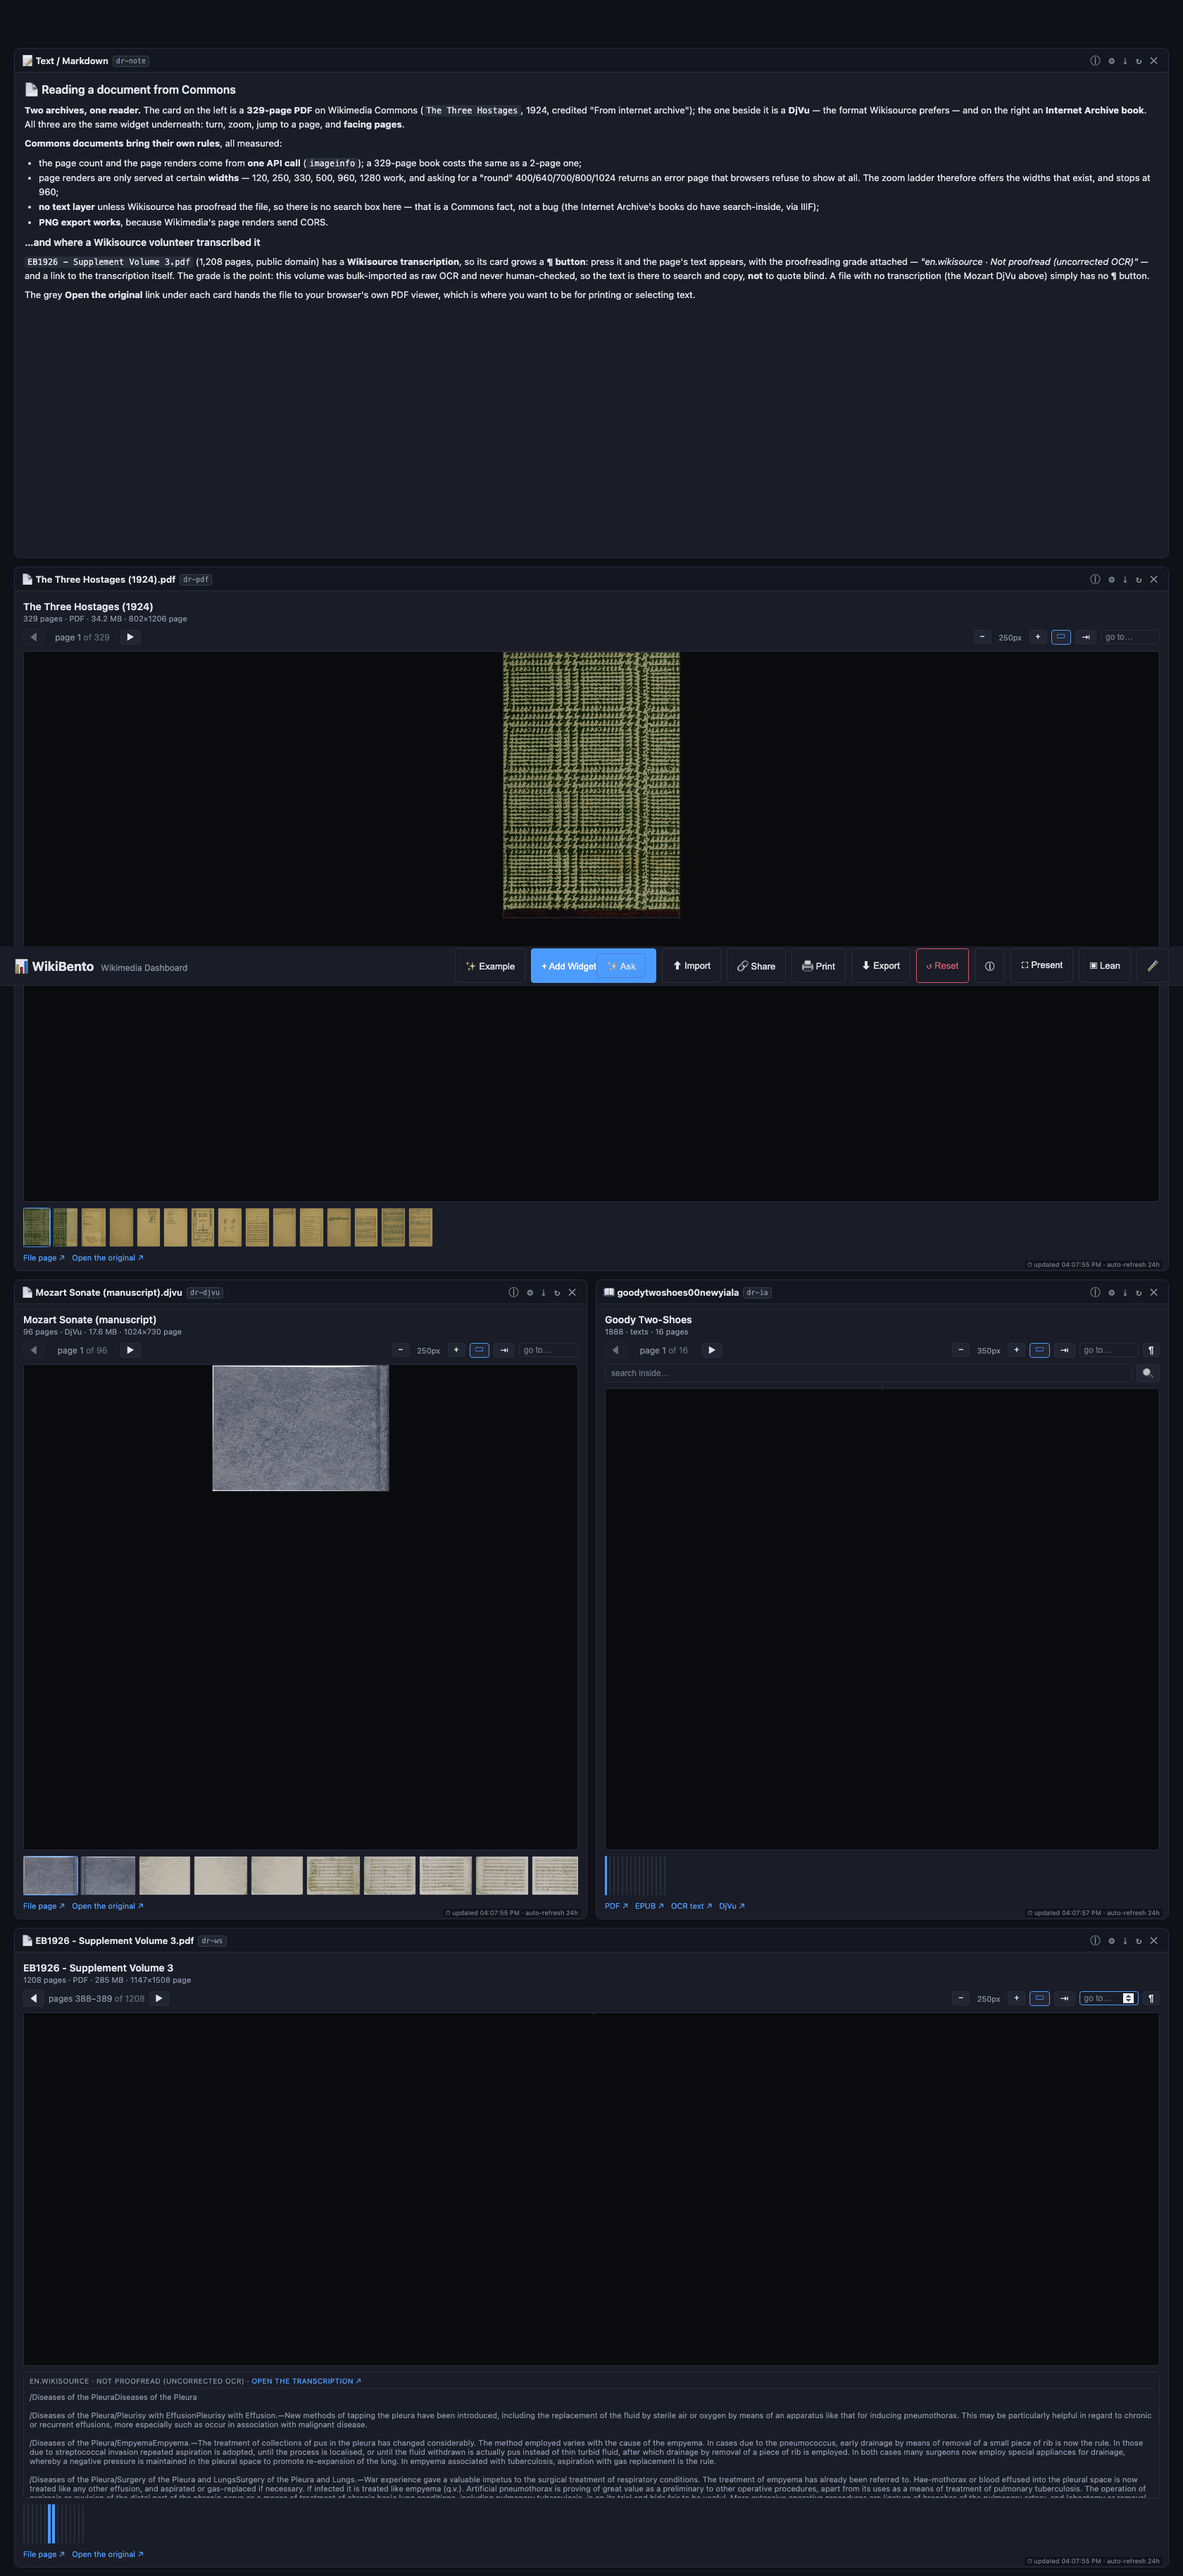
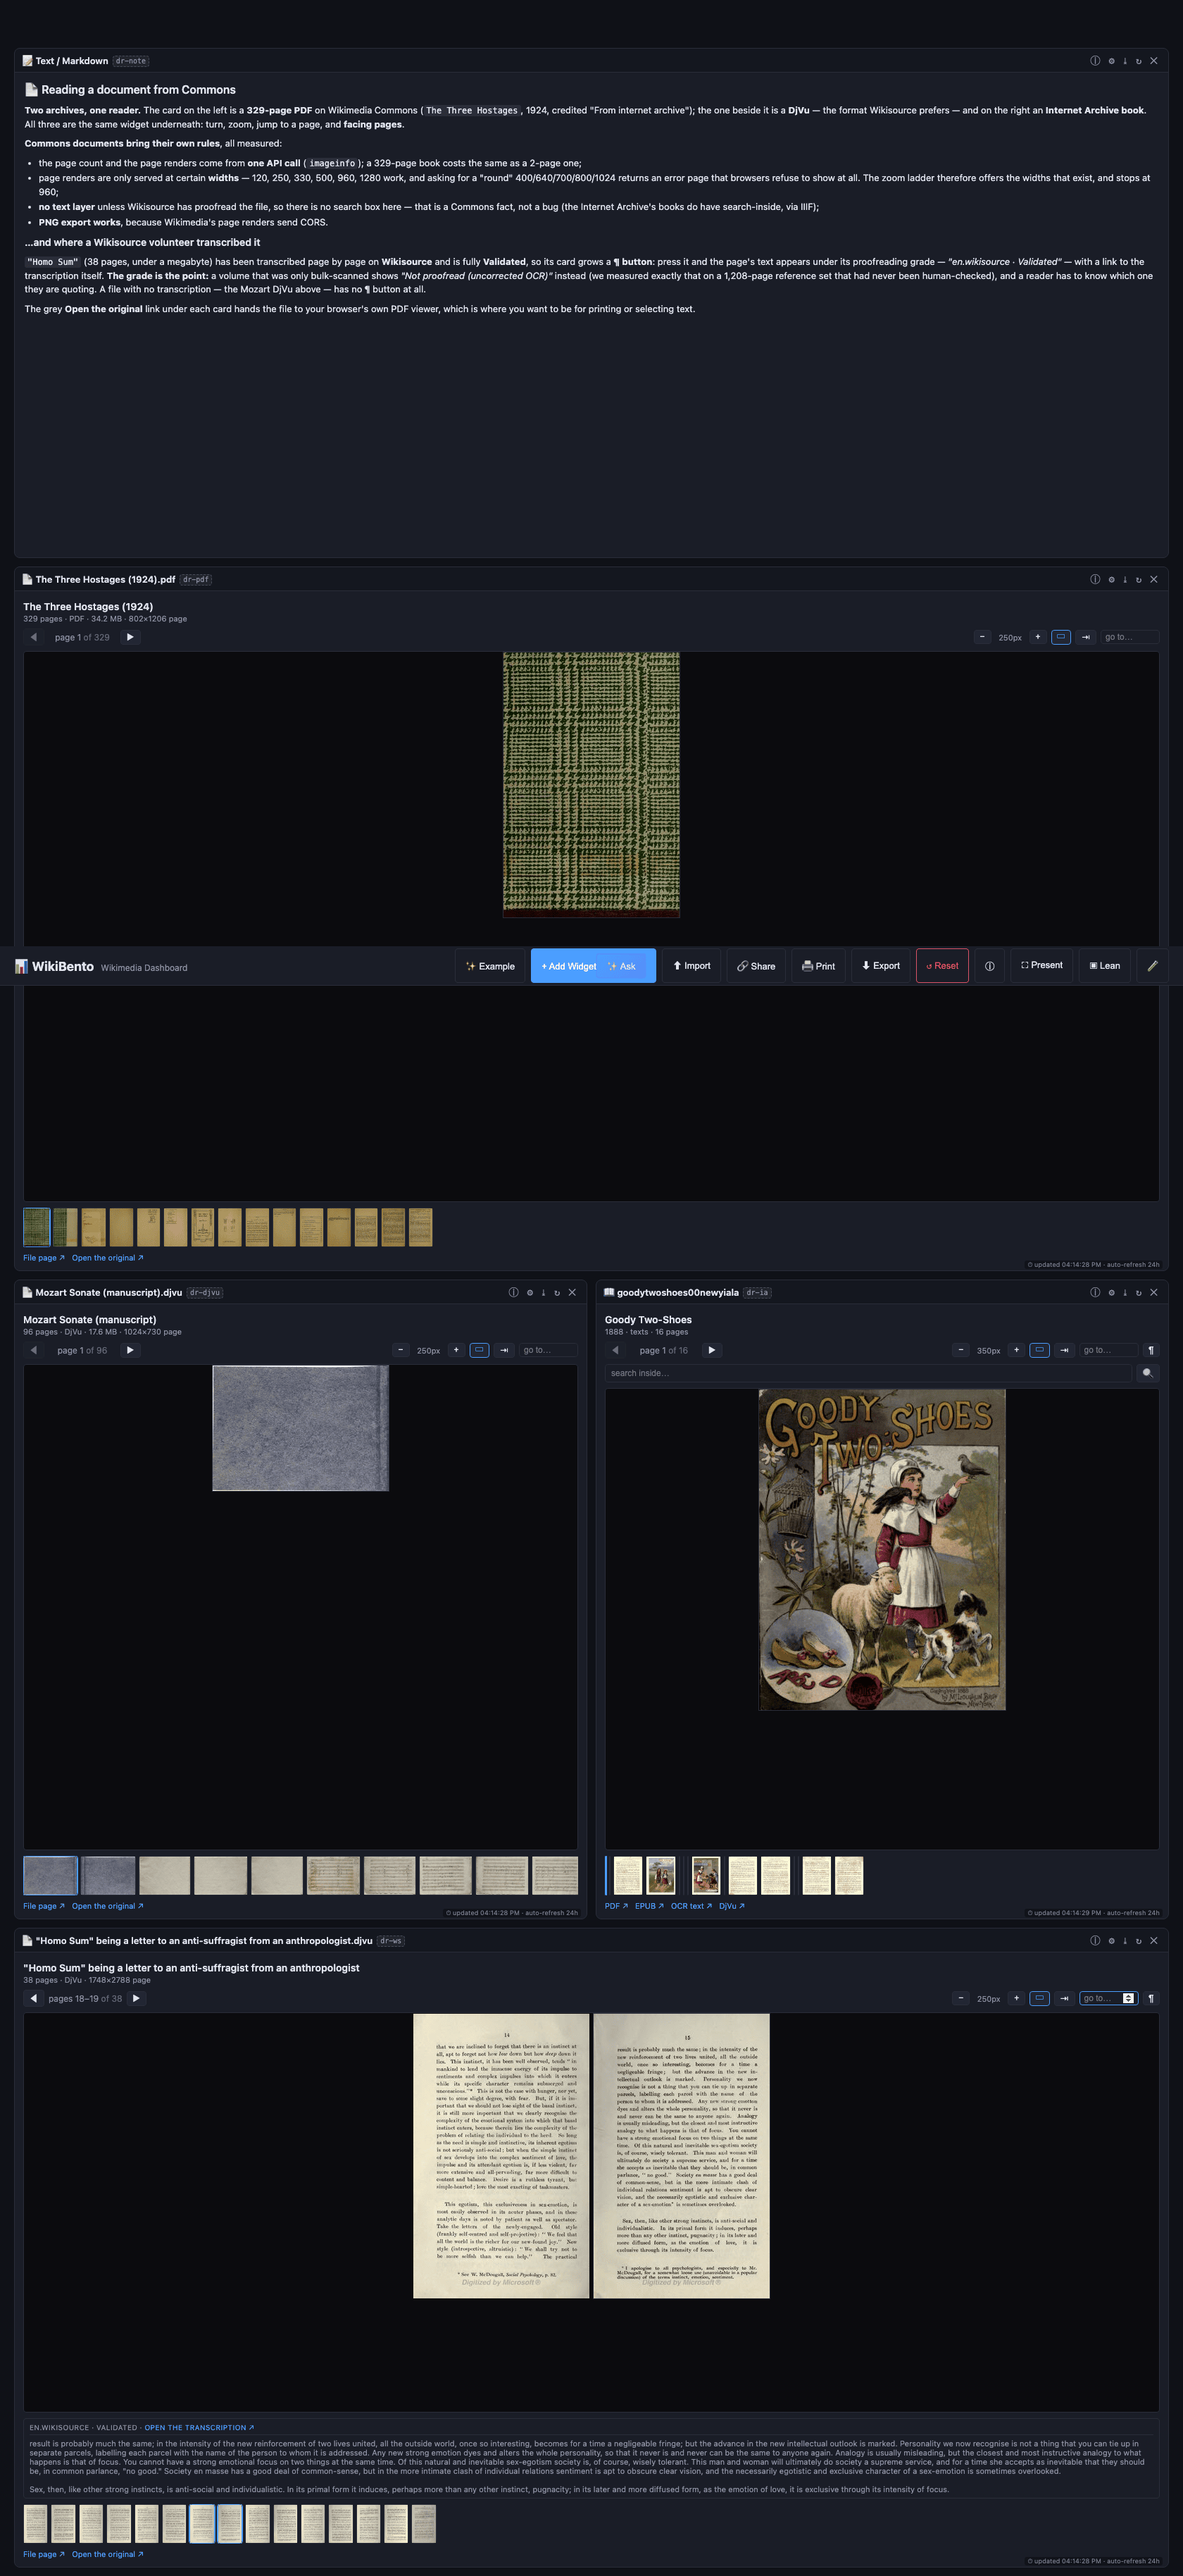
Use a small transcribed work as the demo fixture, not a 285 MB reference set
Andrew opened public/document-reader-demo.json and asked for something smaller than
EB1926 - Supplement Volume 3.pdf (1,208 pages, 285 MB). He is right, and it is also the better demo.

NEW FIXTURE: File:"Homo Sum" being a letter to an anti-suffragist from an anthropologist.djvu — 38 pages,
0.89 MB, transcribed page by page on en.wikisource and fully **Validated** (level 4). It appears in the
Index: namespace on en.wikisource, so the detection works the same way, and it makes the demo tell a BETTER
story than the big volume did: the panel now reads "en.wikisource · Validated" over clean text, while the
grade's other end — "Not proofread (uncorrected OCR)" — is documented as the measured case it is. Found by
listing the Index: namespace and batching Commons imageinfo for 50 candidate files, sorted by size; the other
small hits were single-image posters (pagecount 0), which the reader correctly refuses.

The 1,208-page volume stays in the docs as EVIDENCE, clearly labelled: it is where the 5-second first-render
and the all-level-1 bulk-OCR facts came from, and it is why the panel prints a grade at all. The demo,
the E2E and the screenshot now use the small work — a run should not depend on a 285 MB file.

CHANGED: the demo card's file and its note (rewritten around the validated work, with the OCR contrast kept
as one sentence); the E2E fixture and three assertions (38 pages instead of 1,208; page 19 instead of 434;
[…]

diff --git a/docs/SCREENSHOTS.md b/docs/SCREENSHOTS.md
@@ -153,12 +153,14 @@ chapters as a playlist, straight from `archive.org/download/` with no API call. 
 
 ## `wikibento-2026-09-15-wikisource-text-panel.png` — the text layer, with its grade (2026-09-15)
 
-Inside `/document-reader-demo.json`: `EB1926 - Supplement Volume 3.pdf` — the 1926 Encyclopædia Britannica
-Supplement, 1,208 pages, transcribed page by page on **Wikisource** — showing page 389's text (8,954
-characters) under a header that reads **"en.wikisource · Not proofread (uncorrected OCR)"** with a link to the
-transcription. That header is the feature: the volume was bulk-imported as OCR and never human-checked, so the
-words are there to search and copy and *not* to quote blind. A file with no transcription (the Mozart DjVu on
-the same board) has no ¶ button at all.
+Inside `/document-reader-demo.json`: `"Homo Sum"`, a **38-page** DjVu under a megabyte, transcribed page by
+page on **Wikisource** and fully **Validated**. Page 19 is showing its text (1,458 characters) under a header
+that reads **"en.wikisource · Validated"** with a link to the transcription.
+
+The grade is the feature, not decoration: the same panel on a merely scanned volume says **"Not proofread
+(uncorrected OCR)"** — measured on a 1,208-page reference set that had been bulk-imported and never
+human-checked — and a reader has to know which of the two they are quoting. A file with no transcription (the
+Mozart DjVu on the same board) has no ¶ button at all.
 
 ## `wikibento-2026-09-15-document-reader-demo.png` — two archives, one reader (2026-09-15)
 
